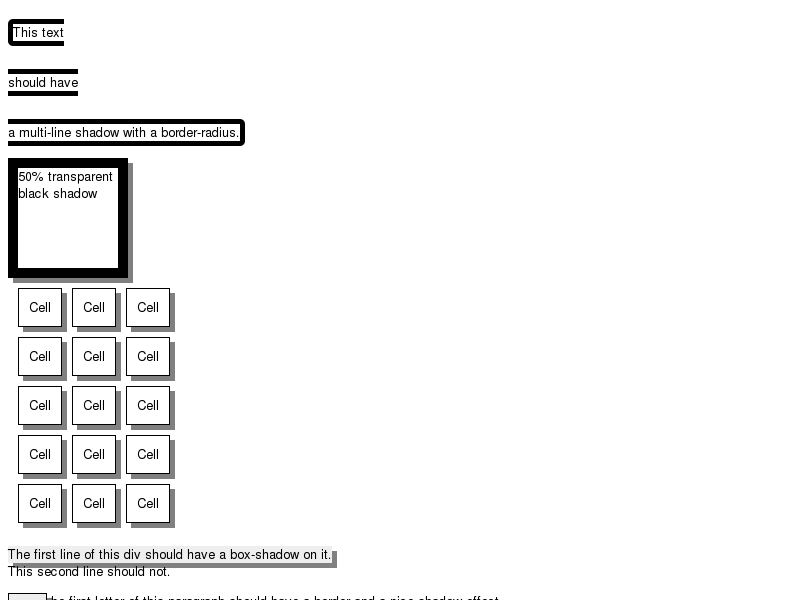
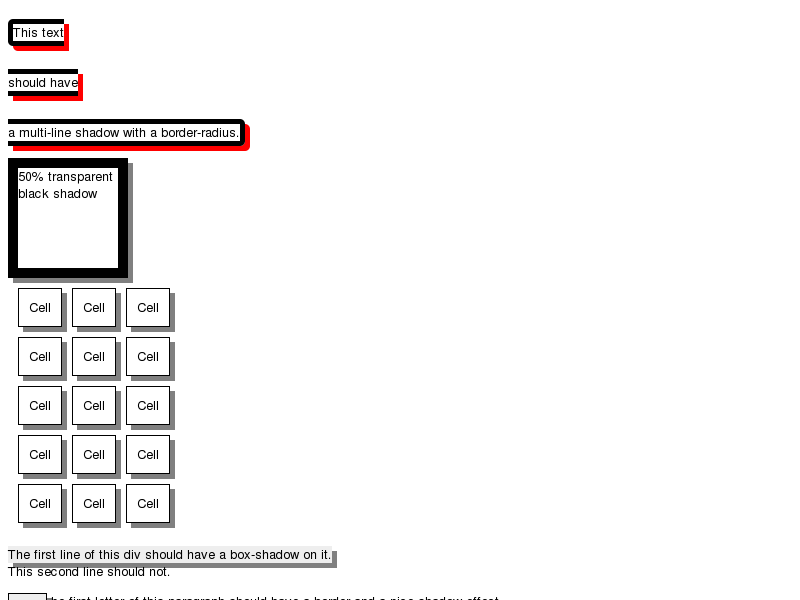
2009-09-09  Carol Szabo  <carol.szabo@nokia.com>
Reviewed by Ariya Hidayat.

        [Qt] CSS Style -webkit-box-shadow is not rendered correctly on
        Qt platform
        https://bugs.webkit.org/show_bug.cgi?id=23291

        * platform/graphics/qt/GraphicsContextQt.cpp:
        (WebCore::GraphicsContext::drawRect):
        (WebCore::GraphicsContext::strokeArc):
        (WebCore::GraphicsContext::drawConvexPolygon):
        (WebCore::GraphicsContext::fillPath):
        (WebCore::GraphicsContext::strokePath):
        (WebCore::GraphicsContext::fillRect):
        (WebCore::GraphicsContext::fillRoundedRect):
         Added the ability to draw shadows for all these curves.

2009-09-09  Carol Szabo  <carol.szabo@nokia.com>

        Reviewed by Ariya Hidayat.

        [Qt] -webkit-box-shadow CSS Style is not rendered correctly on
        Qt platform
        https://bugs.webkit.org/show_bug.cgi?id=23291

        * platform/qt/fast/box-shadow/basic-shadows-expected.checksum:
        * platform/qt/fast/box-shadow/basic-shadows-expected.png:
        * platform/qt/fast/box-shadow/inset-expected.checksum:
        * platform/qt/fast/box-shadow/inset-expected.png:
        * platform/qt/fast/box-shadow/spread-expected.checksum:
        * platform/qt/fast/box-shadow/spread-expected.png:
          Updated to show the new shadows.

git-svn-id: https://svn.webkit.org/repository/webkit/trunk@48220 268f45cc-cd09-0410-ab3c-d52691b4dbfc

Changed region(s): [[0.0, 0.21, 0.3125, 0.27], [0.0, 0.12, 0.125, 0.18], [0.0, 0.03, 0.0938, 0.09]]

diff --git a/WebCore/platform/graphics/qt/GraphicsContextQt.cpp b/WebCore/platform/graphics/qt/GraphicsContextQt.cpp
@@ -418,11 +418,11 @@ void GraphicsContext::drawRect(const IntRect& rect)
     IntSize shadowSize;
     int shadowBlur;
     Color shadowColor;
-    if (textDrawingMode() == cTextFill && getShadow(shadowSize, shadowBlur, shadowColor)) {
+    if (getShadow(shadowSize, shadowBlur, shadowColor)) {
         IntRect shadowRect = rect;
         shadowRect.move(shadowSize.width(), shadowSize.height());
-        shadowRect.inflate(p->pen().widthF());
-        p->fillRect(shadowRect, QColor(shadowColor));
+        shadowRect.inflate(static_cast<int>(p->pen().widthF()));
+        p->fillRect(shadowRect, shadowColor);
     }
 
     p->drawRect(rect);
@@ -458,7 +458,7 @@ void GraphicsContext::drawLine(const IntPoint& point1, const IntPoint& point2)
     if (textDrawingMode() == cTextFill && getShadow(shadowSize, shadowBlur, shadowColor)) {
         p->save();
         p->translate(shadowSize.width(), shadowSize.height());
-        p->setPen(QColor(shadowColor));
+        p->setPen(shadowColor);
         p->drawLine(p1, p2);
         p->restore();
     }
@@ -482,11 +482,11 @@ void GraphicsContext::drawLine(const IntPoint& point1, const IntPoint& point2)
         // Do a rect fill of our endpoints.  This ensures we always have the
         // appearance of being a border.  We then draw the actual dotted/dashed line.
         if (isVerticalLine) {
-            p->fillRect(FloatRect(p1.x() - width / 2, p1.y() - width, width, width), QColor(color));
-            p->fillRect(FloatRect(p2.x() - width / 2, p2.y(), width, width), QColor(color));
+            p->fillRect(FloatRect(p1.x() - width / 2, p1.y() - width, width, width), color);
+            p->fillRect(FloatRect(p2.x() - width / 2, p2.y(), width, width), color);
         } else {
-            p->fillRect(FloatRect(p1.x() - width, p1.y() - width / 2, width, width), QColor(color));
-            p->fillRect(FloatRect(p2.x(), p2.y() - width / 2, width, width), QColor(color));
+            p->fillRect(FloatRect(p1.x() - width, p1.y() - width / 2, width, width), color);
+            p->fillRect(FloatRect(p2.x(), p2.y() - width / 2, width, width), color);
         }
 
         // Example: 80 pixels with a width of 30 pixels.
@@ -554,7 +554,21 @@ void GraphicsContext::strokeArc(const IntRect& rect, int startAngle, int angleSp
     const bool antiAlias = p->testRenderHint(QPainter::Antialiasing);
     p->setRenderHint(QPainter::Antialiasing, true);
 
-    p->drawArc(rect, startAngle * 16, angleSpan * 16);
+    IntSize shadowSize;
+    int shadowBlur;
+    Color shadowColor;
+    startAngle *= 16;
+    angleSpan *= 16;
+    if (getShadow(shadowSize, shadowBlur, shadowColor)) {
+        p->save();
+        p->translate(shadowSize.width(), shadowSize.height());
+        QPen pen(p->pen());
+        pen.setColor(shadowColor);
+        p->setPen(pen);
+        p->drawArc(rect, startAngle, angleSpan);
+        p->restore();
+    }
+    p->drawArc(rect, startAngle, angleSpan);
 
     p->setRenderHint(QPainter::Antialiasing, antiAlias);
 }
@@ -575,6 +589,22 @@ void GraphicsContext::drawConvexPolygon(size_t npoints, const FloatPoint* points
     QPainter* p = m_data->p();
     p->save();
     p->setRenderHint(QPainter::Antialiasing, shouldAntialias);
+    IntSize shadowSize;
+    int shadowBlur;
+    Color shadowColor;
+    if (getShadow(shadowSize, shadowBlur, shadowColor)) {
+        p->save();
+        p->translate(shadowSize.width(), shadowSize.height());
+        if (p->brush().style() != Qt::NoBrush)
+            p->setBrush(QBrush(shadowColor));
+        QPen pen(p->pen());
+        if (pen.style() != Qt::NoPen) {
+            pen.setColor(shadowColor);
+            p->setPen(pen);
+        }
+        p->drawConvexPolygon(polygon);
+        p->restore();
+    }
     p->drawConvexPolygon(polygon);
     p->restore();
 }
@@ -588,6 +618,18 @@ QPen GraphicsContext::pen()
     return p->pen();
 }
 
+static void inline drawFilledShadowPath(GraphicsContext* context, QPainter* p, const QPainterPath *path)
+{
+    IntSize shadowSize;
+    int shadowBlur;
+    Color shadowColor;
+    if (context->getShadow(shadowSize, shadowBlur, shadowColor)) {
+        p->translate(shadowSize.width(), shadowSize.height());
+        p->fillPath(*path, QBrush(shadowColor));
+        p->translate(-shadowSize.width(), -shadowSize.height());
+    }
+}
+
 void GraphicsContext::fillPath()
 {
     if (paintingDisabled())
@@ -597,21 +639,25 @@ void GraphicsContext::fillPath()
     QPainterPath path = m_data->currentPath;
     path.setFillRule(toQtFillRule(fillRule()));
 
-    switch (m_common->state.fillColorSpace) {
-    case SolidColorSpace:
-        if (fillColor().alpha())
-            p->fillPath(path, p->brush());
-        break;
-    case PatternColorSpace: {
-        TransformationMatrix affine;
-        p->fillPath(path, QBrush(m_common->state.fillPattern->createPlatformPattern(affine)));
-        break;
-    }
-    case GradientColorSpace:
-        QBrush brush(*m_common->state.fillGradient->platformGradient());
-        brush.setTransform(m_common->state.fillGradient->gradientSpaceTransform());
-        p->fillPath(path, brush);
-        break;
+    if ((m_common->state.fillColorSpace != SolidColorSpace)
+            || (fillColor().alpha())) {
+        drawFilledShadowPath(this, p, &path);
+        switch (m_common->state.fillColorSpace) {
+        case SolidColorSpace:
+            if (fillColor().alpha())
+                p->fillPath(path, p->brush());
+            break;
+        case PatternColorSpace: {
+            TransformationMatrix affine;
+            p->fillPath(path, QBrush(m_common->state.fillPattern->createPlatformPattern(affine)));
+            break;
+        }
+        case GradientColorSpace:
+            QBrush brush(*m_common->state.fillGradient->platformGradient());
+            brush.setTransform(m_common->state.fillGradient->gradientSpaceTransform());
+            p->fillPath(path, brush);
+            break;
+        }
     }
     m_data->currentPath = QPainterPath();
 }
@@ -622,32 +668,58 @@ void GraphicsContext::strokePath()
         return;
 
     QPainter* p = m_data->p();
-    QPen pen = p->pen();
+    QPen pen(p->pen());
     QPainterPath path = m_data->currentPath;
     path.setFillRule(toQtFillRule(fillRule()));
 
-    switch (m_common->state.strokeColorSpace) {
-    case SolidColorSpace:
-        if (strokeColor().alpha())
+    if ((m_common->state.strokeColorSpace != SolidColorSpace)
+            || (strokeColor().alpha())) {
+        IntSize shadowSize;
+        int shadowBlur;
+        Color shadowColor;
+        if (getShadow(shadowSize, shadowBlur, shadowColor)) {
+            QTransform t(p->worldTransform());
+            p->translate(shadowSize.width(), shadowSize.height());
+            QPen shadowPen(pen);
+            shadowPen.setColor(shadowColor);
+            p->strokePath(path, shadowPen);
+            p->setWorldTransform(t);
+        }
+        switch (m_common->state.strokeColorSpace) {
+        case SolidColorSpace:
+            if (strokeColor().alpha())
+                p->strokePath(path, pen);
+            break;
+        case PatternColorSpace: {
+            TransformationMatrix affine;
+            pen.setBrush(QBrush(m_common->state.strokePattern->createPlatformPattern(affine)));
+            p->setPen(pen);
             p->strokePath(path, pen);
-        break;
-    case PatternColorSpace: {
-        TransformationMatrix affine;
-        pen.setBrush(QBrush(m_common->state.strokePattern->createPlatformPattern(affine)));
-        p->setPen(pen);
-        p->strokePath(path, pen);
-        break;
-    }
-    case GradientColorSpace: {
-        QBrush brush(*m_common->state.strokeGradient->platformGradient());
-        brush.setTransform(m_common->state.strokeGradient->gradientSpaceTransform());
-        pen.setBrush(brush);
-        p->setPen(pen);
-        p->strokePath(path, pen);
-        break;
-    }
+            break;
+        }
+        case GradientColorSpace: {
+            QBrush brush(*m_common->state.strokeGradient->platformGradient());
+            brush.setTransform(m_common->state.strokeGradient->gradientSpaceTransform());
+            pen.setBrush(brush);
+            p->setPen(pen);
+            p->strokePath(path, pen);
+            break;
+        }
+        }
     }
     m_data->currentPath = QPainterPath();
+}
+
+static inline void drawBorderlessRectShadow(GraphicsContext* context, QPainter* p, const FloatRect& rect)
+{
+    IntSize shadowSize;
+    int shadowBlur;
+    Color shadowColor;
+    if (context->getShadow(shadowSize, shadowBlur, shadowColor)) {
+        FloatRect shadowRect(rect);
+        shadowRect.move(shadowSize.width(), shadowSize.height());
+        p->fillRect(shadowRect, shadowColor);
+    }
 }
 
 void GraphicsContext::fillRect(const FloatRect& rect)
@@ -657,32 +729,26 @@ void GraphicsContext::fillRect(const FloatRect& rect)
 
     QPainter* p = m_data->p();
 
-    IntSize shadowSize;
-    int shadowBlur;
-    Color shadowColor;
-    if (getShadow(shadowSize, shadowBlur, shadowColor)) {
-        FloatRect shadowRect = rect;
-        shadowRect.move(shadowSize.width(), shadowSize.height());
-        p->fillRect(shadowRect, QColor(shadowColor));
+    if ((m_common->state.fillColorSpace != SolidColorSpace)
+            || (fillColor().alpha())) {
+        drawBorderlessRectShadow(this, p, rect);
+        switch (m_common->state.fillColorSpace) {
+        case SolidColorSpace:
+            if (fillColor().alpha())
+                p->fillRect(rect, p->brush());
+            break;
+        case PatternColorSpace: {
+            TransformationMatrix affine;
+            p->fillRect(rect, QBrush(m_common->state.fillPattern->createPlatformPattern(affine)));
+            break;
+        }
+        case GradientColorSpace:
+            QBrush brush(*m_common->state.fillGradient->platformGradient());
+            brush.setTransform(m_common->state.fillGradient->gradientSpaceTransform());
+            p->fillRect(rect, brush);
+            break;
+        }
     }
-
-    switch (m_common->state.fillColorSpace) {
-    case SolidColorSpace:
-        if (fillColor().alpha())
-            p->fillRect(rect, p->brush());
-        break;
-    case PatternColorSpace: {
-        TransformationMatrix affine;
-        p->fillRect(rect, QBrush(m_common->state.fillPattern->createPlatformPattern(affine)));
-        break;
-    }
-    case GradientColorSpace:
-        QBrush brush(*m_common->state.fillGradient->platformGradient());
-        brush.setTransform(m_common->state.fillGradient->gradientSpaceTransform());
-        p->fillRect(rect, brush);
-        break;
-    }
-    m_data->currentPath = QPainterPath();
 }
 
 void GraphicsContext::fillRect(const FloatRect& rect, const Color& c)
@@ -690,17 +756,9 @@ void GraphicsContext::fillRect(const FloatRect& rect, const Color& c)
     if (paintingDisabled())
         return;
 
-    m_data->solidColor.setColor(QColor(c));
-    IntSize shadowSize;
-    int shadowBlur;
-    Color shadowColor;
+    m_data->solidColor.setColor(c);
     QPainter* p = m_data->p();
-    if (textDrawingMode() == cTextFill && getShadow(shadowSize, shadowBlur, shadowColor)) {
-        FloatRect shadowRect = rect;
-        shadowRect.move(shadowSize.width(), shadowSize.height());
-        shadowRect.inflate(p->pen().widthF());
-        p->fillRect(shadowRect, QColor(shadowColor));
-    }
+    drawBorderlessRectShadow(this, p, rect);
     p->fillRect(rect, m_data->solidColor);
 }
 
@@ -710,7 +768,9 @@ void GraphicsContext::fillRoundedRect(const IntRect& rect, const IntSize& topLef
         return;
 
     Path path = Path::createRoundedRectangle(rect, topLeft, topRight, bottomLeft, bottomRight);
-    m_data->p()->fillPath(*path.platformPath(), QColor(color));
+    QPainter* p = m_data->p();
+    drawFilledShadowPath(this, p, path.platformPath());
+    p->fillPath(*path.platformPath(), QColor(color));
 }
 
 void GraphicsContext::beginPath()
